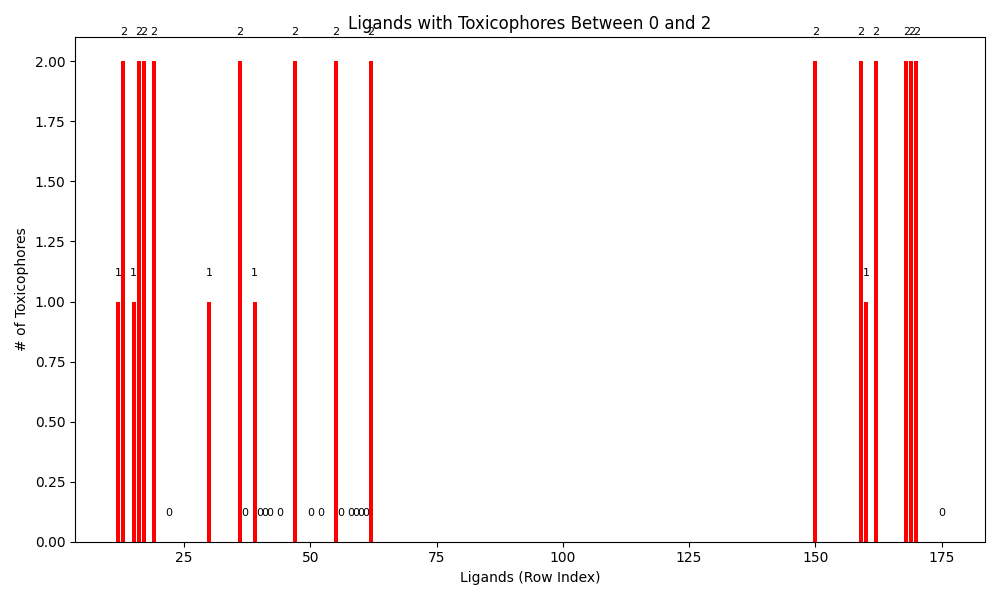
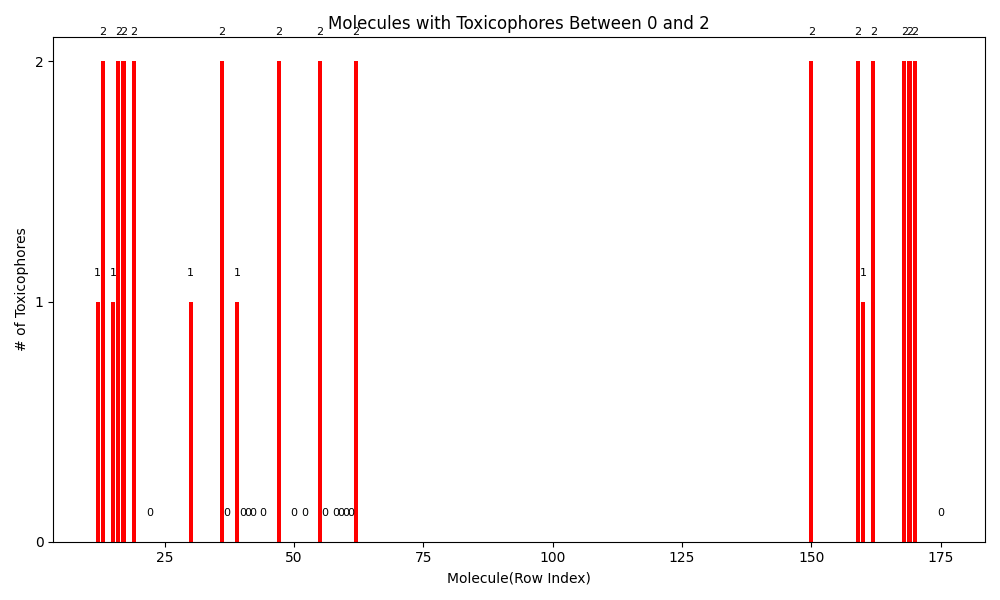
fixed up toxicity graph display

diff --git a/toxicity_analysis/toxicophores.py b/toxicity_analysis/toxicophores.py
@@ -4,24 +4,25 @@ import matplotlib.pyplot as plt
 # Loading Data
 data = pd.read_csv(r"C:\Users\kosa3\mti\toxicity_analysis\toxicophore_merged.csv")
 
-# Filter for ligands with 0 to 2 toxicophores
+# Filter for compounds/molecules with 0 to 2 toxicophores
 filtered = data[(data['Toxicophore'] >= 0) & (data['Toxicophore'] <= 2)]
 
 # Save the filtered data
 filtered.to_csv("Filtered_Toxicity.csv", index=False)
 
-# Check if any ligands passed
+# Check if any molecules passed
 if filtered.empty:
-    print("No ligands passed the toxicophore filter (0–2).")
+    print("No molecules passed the toxicophore filter (0–2).")
 else:
-    print(f"{len(filtered)} ligands passed the toxicophore filter.")
+    print(f"{len(filtered)} molecules passed the toxicophore filter.")
     
     # Plot the results
     plt.figure(figsize=(10, 6))
     plt.bar(filtered.index, filtered['Toxicophore'], color='red')
-    plt.xlabel("Ligands (Row Index)")
+    plt.xlabel("Molecule(Row Index)")
     plt.ylabel("# of Toxicophores")
-    plt.title("Ligands with Toxicophores Between 0 and 2")
+    plt.title("Molecules with Toxicophores Between 0 and 2")
+    plt.yticks([0, 1, 2])
 
     # Add value labels on top of each bar
     for i, val in enumerate(filtered['Toxicophore']):
